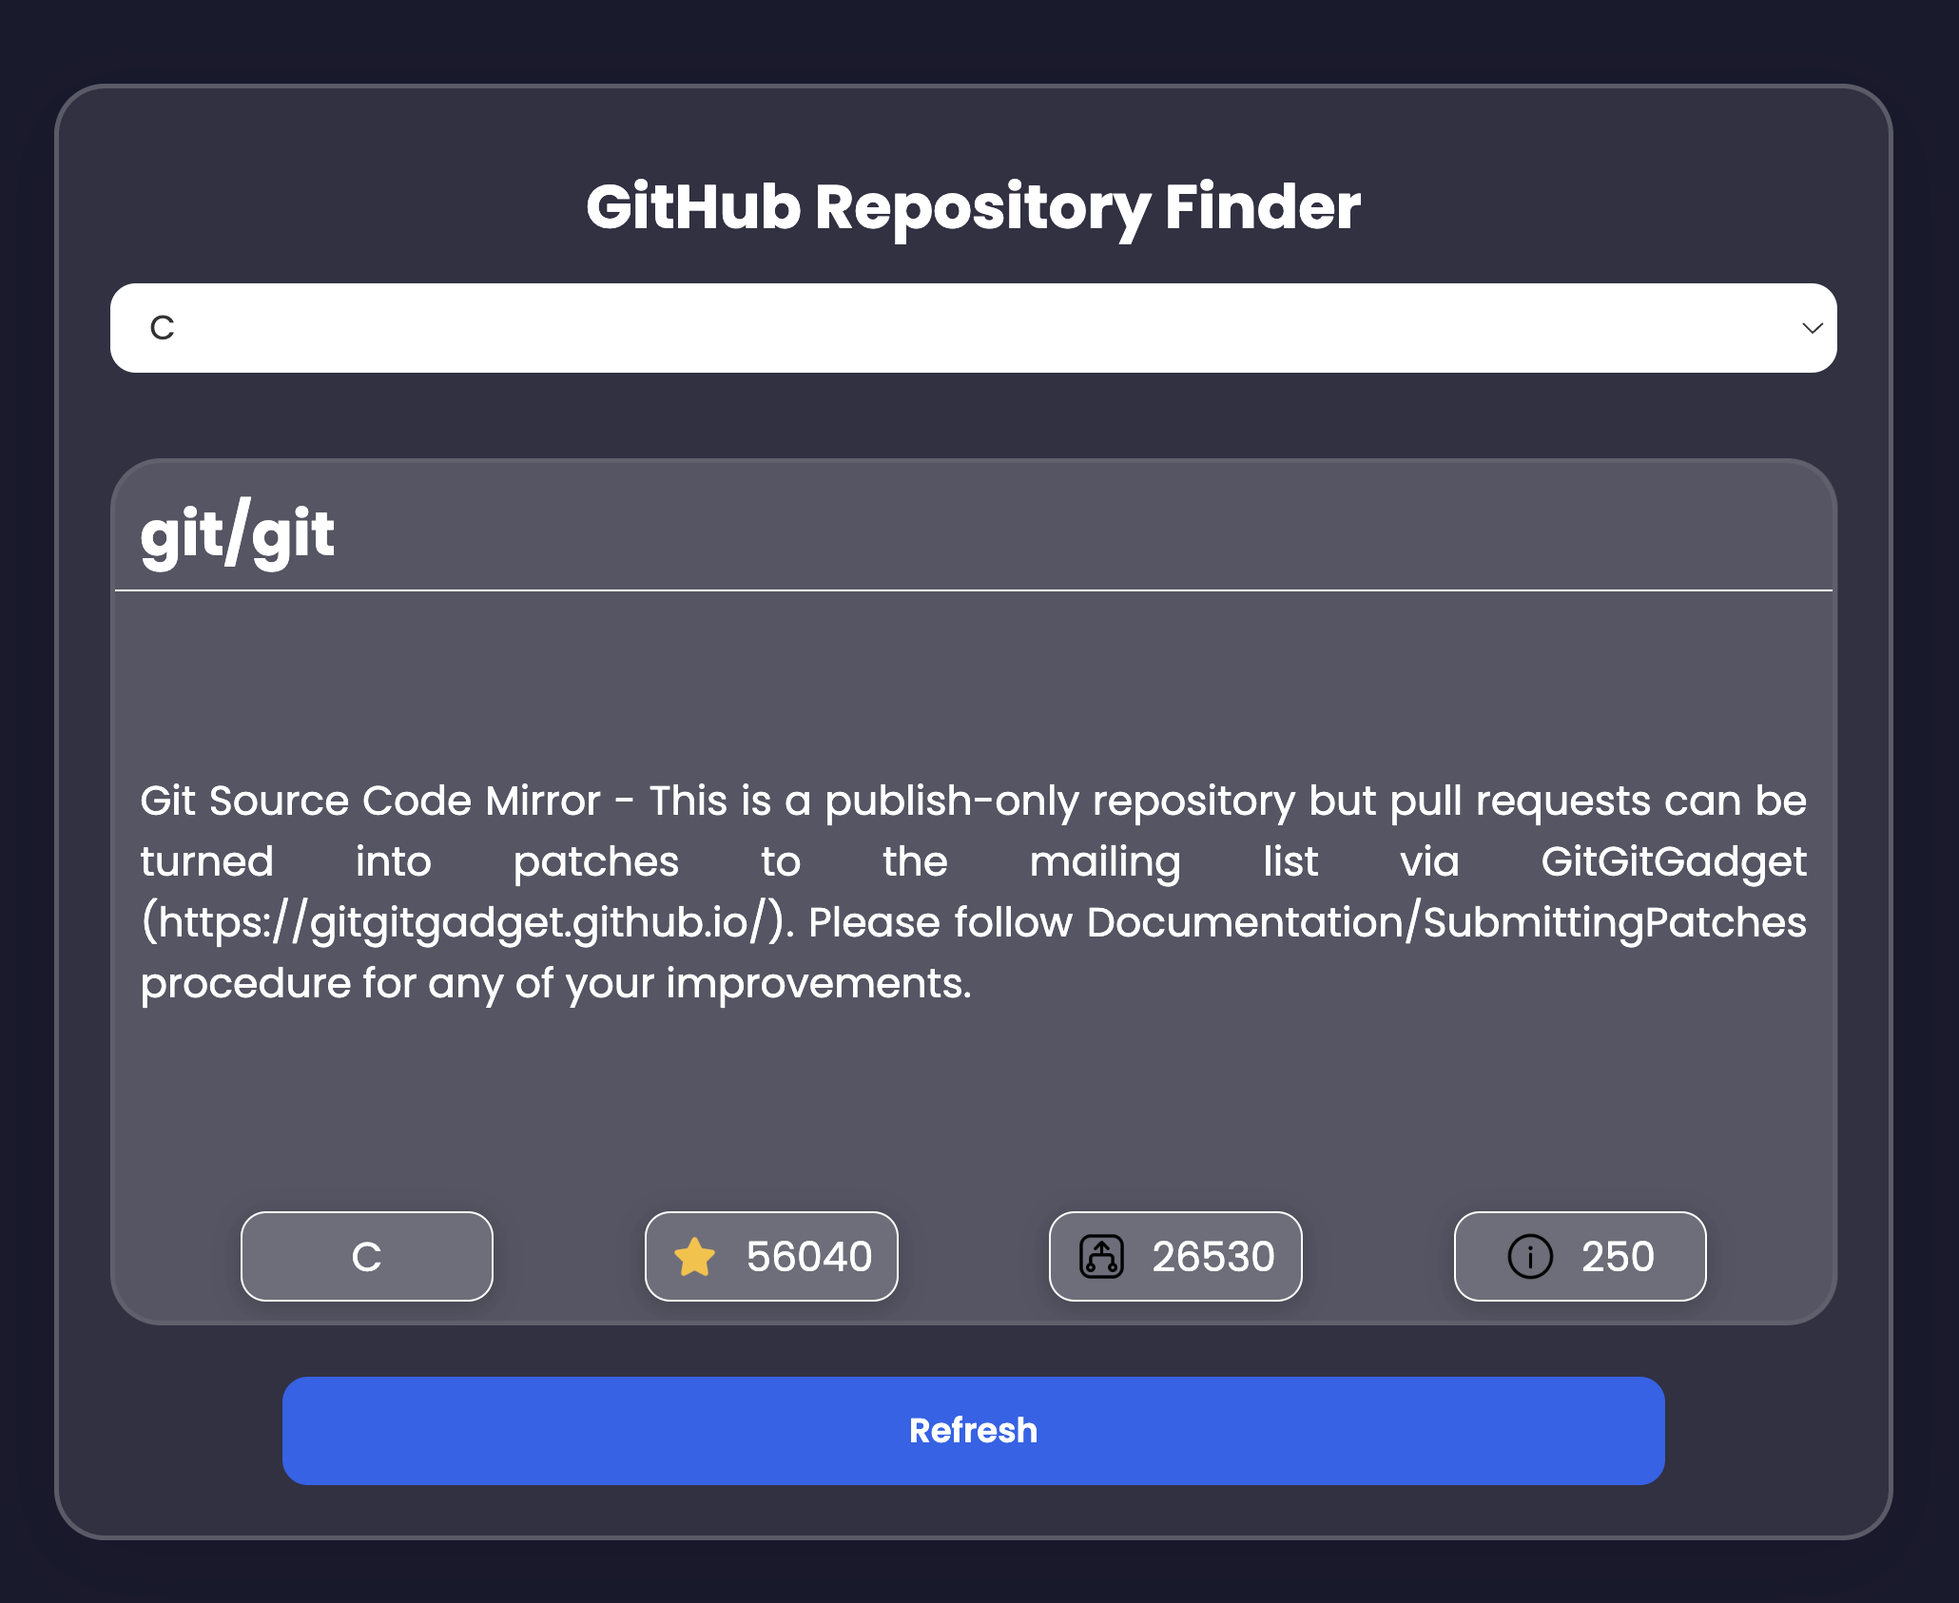
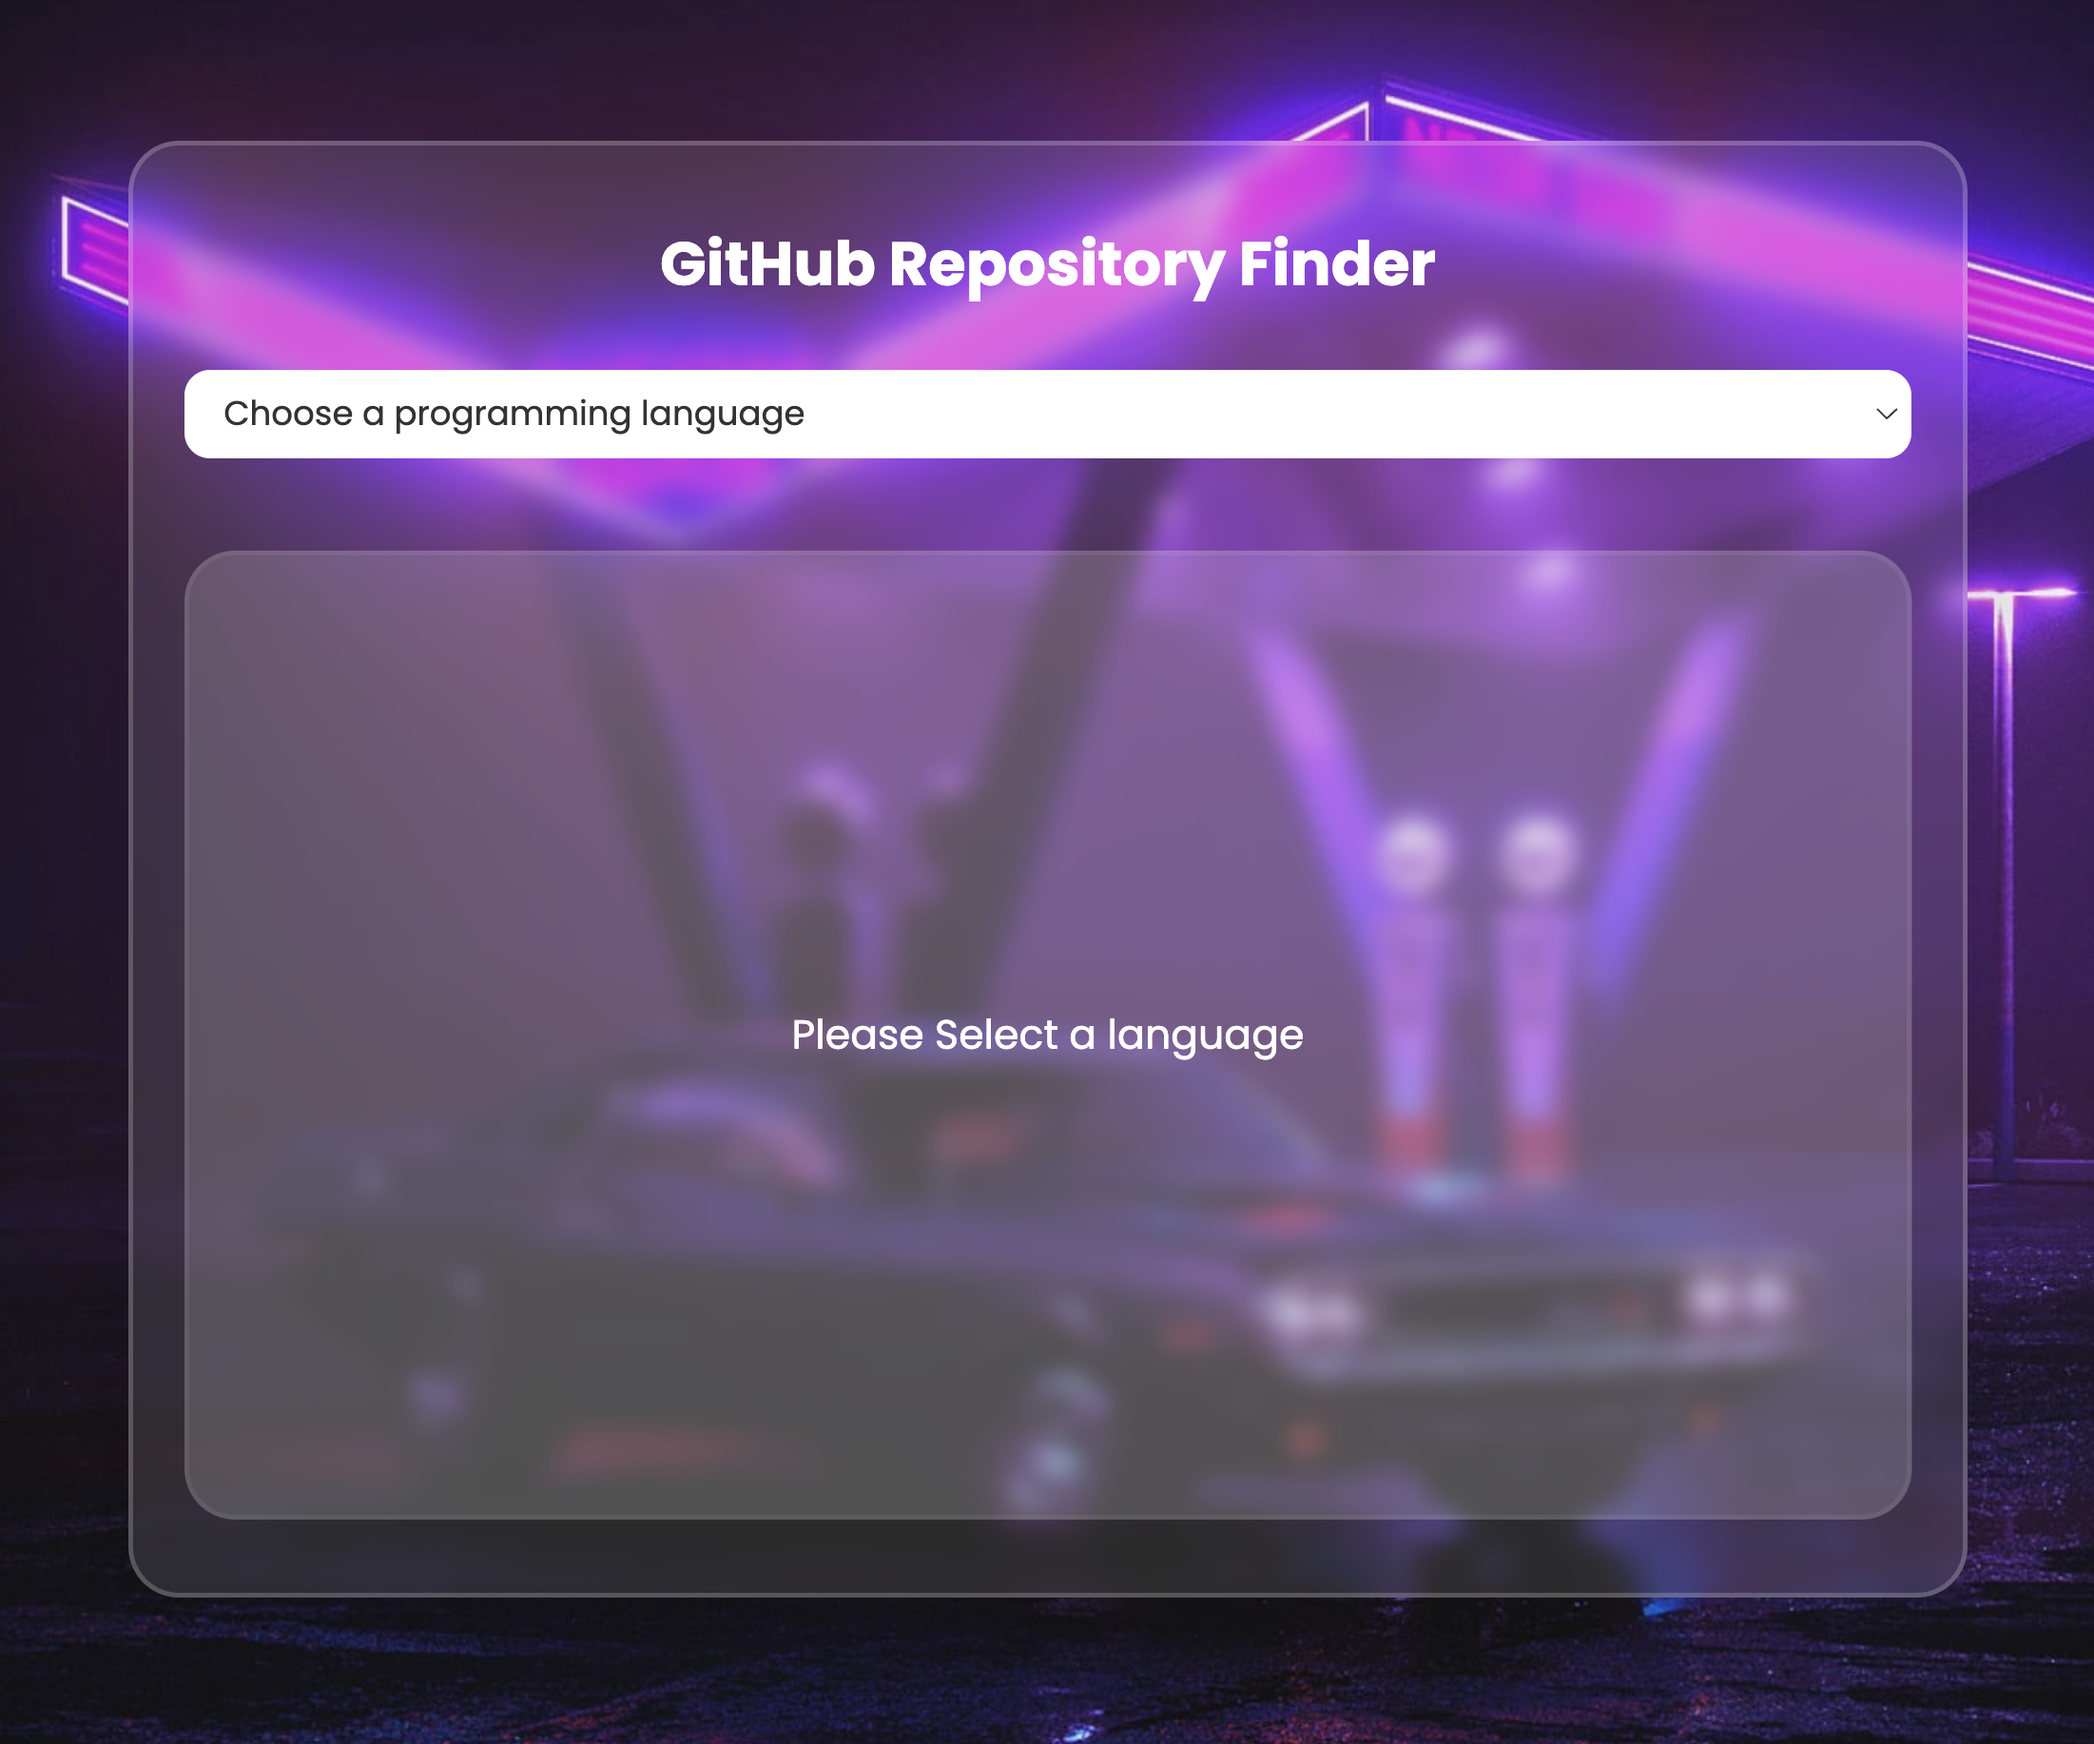
GitHub Repository Finder

diff --git a/style.css b/style.css
@@ -21,6 +21,12 @@ body
     display: flex;
     justify-content: center;
     align-items: center;
+    background-image: url(./assets/background.jpg);
+    background-size: cover;
+    background-position: center;
+    background-repeat: no-repeat;
+    background-attachment: fixed;
+    min-height: 100vh;
 }
 
 .container
@@ -30,7 +36,7 @@ body
     border: 2px solid rgba(255, 255, 255, 0.2);
     border-radius: 20px;
     padding: 20px;
-    backdrop-filter: blur(10px);
+    backdrop-filter: blur(5px);
     background: rgba(255, 255, 255, 0.1);
     box-shadow: 0 8px 32px rgba(0, 0, 0, 0.1);
     max-width: 800px;
@@ -335,6 +341,8 @@ body
 
 /* Very small phones (320px and down) */
 @media screen and (max-width: 320px) {
+
+
     .container {
         width: 98%;
         height: 98%;
